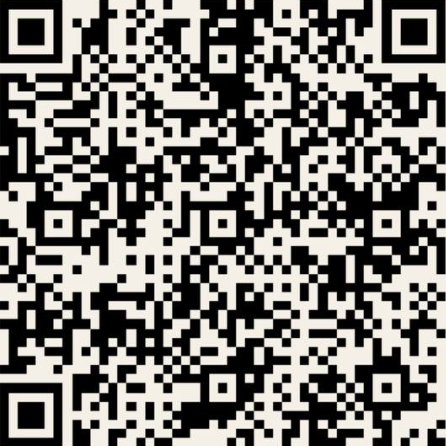
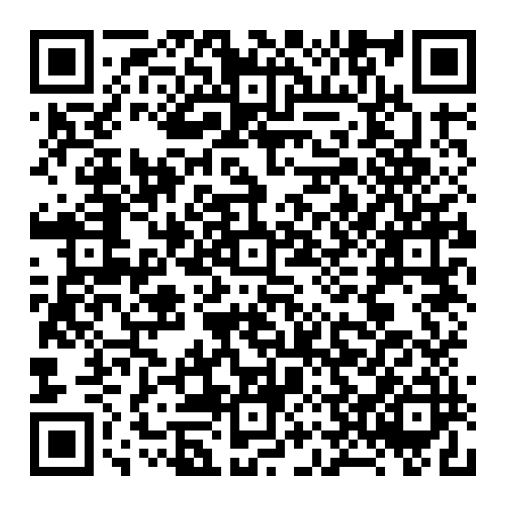
23

diff --git a/styles-ticket-page.css b/styles-ticket-page.css
@@ -71,22 +71,25 @@ body {
 .date {
     font-size: 18px;
     color: #2e1f4c;
-    line-height: 1.2;
+    line-height: 1.5;
     margin-bottom: 1px;
 }
 
 .time-passed {
-    font-size: 18px;
-    margin-top: 20px;
-    margin-bottom: 3px;
+    font-size: 18px; /* Размер шрифта надписи */
+    color: #2e1f4c;
+    line-height: 1.2; /* Интервал между строками */
+    text-align: center; /* Выравнивание по центру */
+    margin-bottom: 1.5px; /* Минимальный отступ снизу */
 }
 
 .timer {
-    font-size: 32px;
-    font-weight: bold;
+    font-size: 32px; /* Размер шрифта таймера */
     color: #2e1f4c;
-    margin-bottom: 20px;
-    line-height: 0.1;
+    font-weight: bold; /* Жирный шрифт */
+    text-align: center; /* Выравнивание по центру */
+    margin-top: 0; /* Убираем верхний отступ */
+    margin-bottom: 0.5px
 }
 
 .qr {

diff --git a/newTicketPage.html b/newTicketPage.html
@@ -52,7 +52,7 @@
             document.getElementById("date").textContent = new Date().toLocaleString();
 
             // Генерация QR-кода с данными пользователя
-            const qrCodeUrl = `https://api.qrserver.com/v1/create-qr-code/?data=Тип%20транспорта%3A%20${transport}%2C%20Номер%20маршрута%3A%20${route}%2C%20Номер%20Т%2FС%3A%20${vehicleNumber}%2C%20Дата%3A%20${new Date().toLocaleString()}`;
+            const qrCodeUrl = `https://api.qrserver.com/v1/create-qr-code/?data=Тип%20транспорта%3A%20${transport}%2C%20Номер%20маршрута%3A%20${route}%2C%20Номер%20Т%2FС%3A%20${vehicleNumber}%2C%20Дата%3A%20${new Date().toLocaleString()}&format=png&transparent=true`;
             document.getElementById("qr-code").src = qrCodeUrl;
 
             // Функция для обновления таймера
